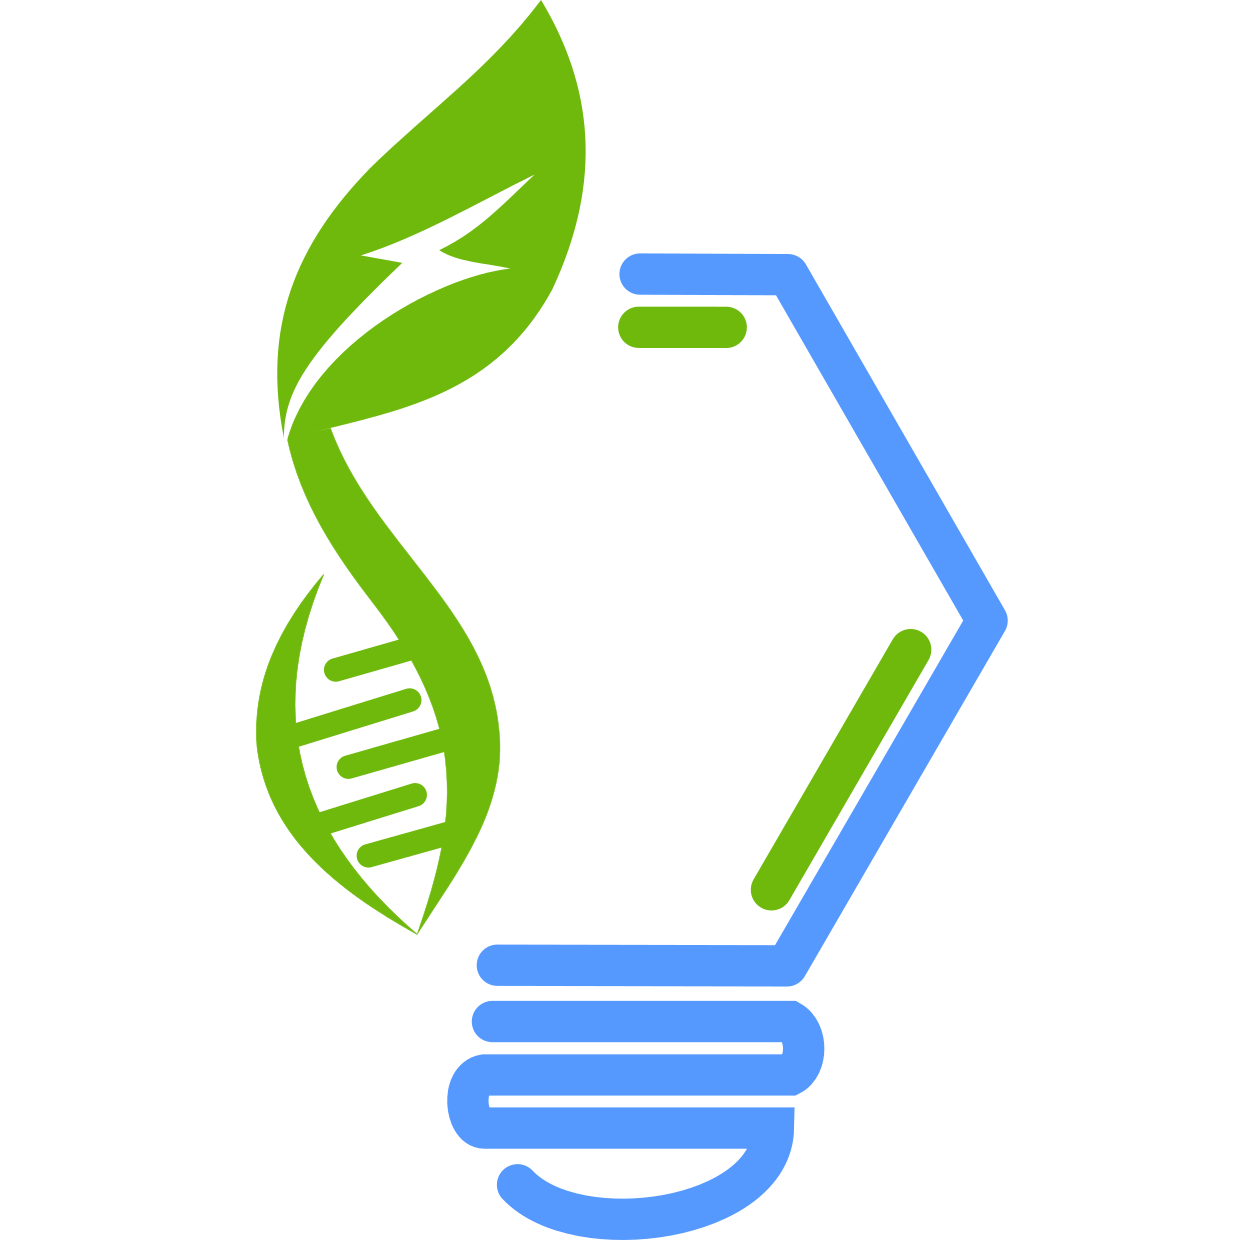
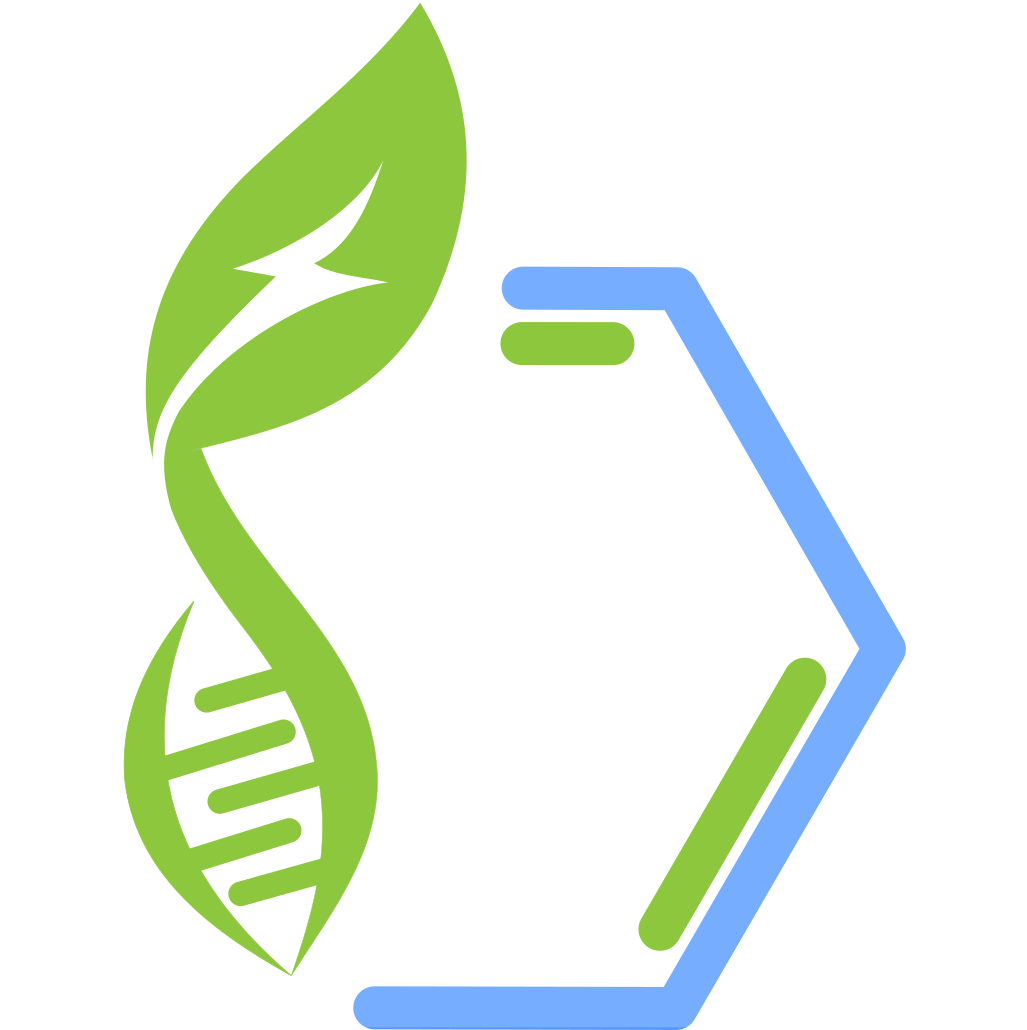
Initial commit

Changed region(s): [[0.0935, 0.0, 0.9036, 1.0]]

diff --git a/group.html b/group.html
@@ -75,7 +75,7 @@
       <div class="container" data-aos="fade-up">
 
         <div class="section-title">
-          <img src="assets/img/logo.png" width="300px">
+          <img src="assets/img/logo2.png" width="200px">
           <h2></h2>
         </div>
 
